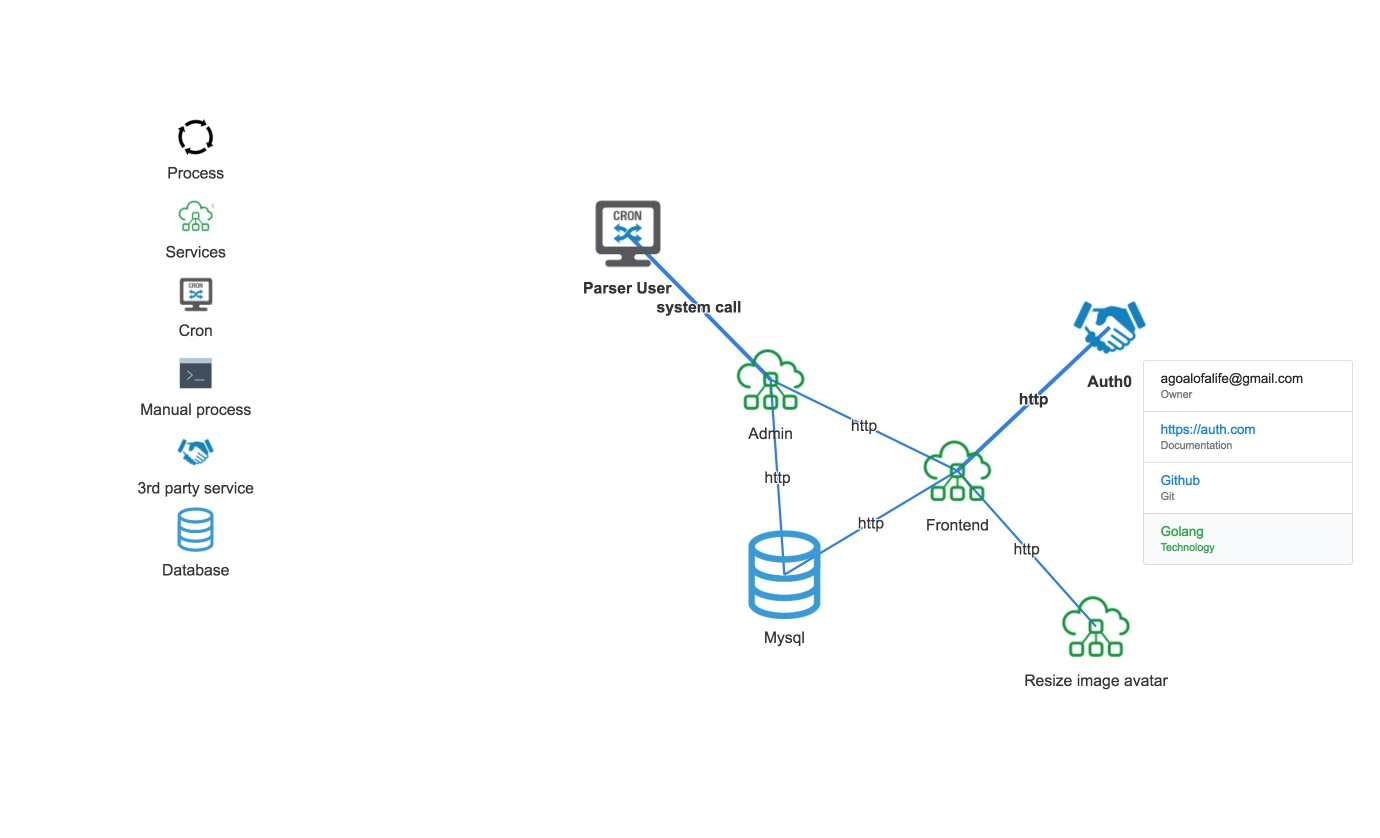
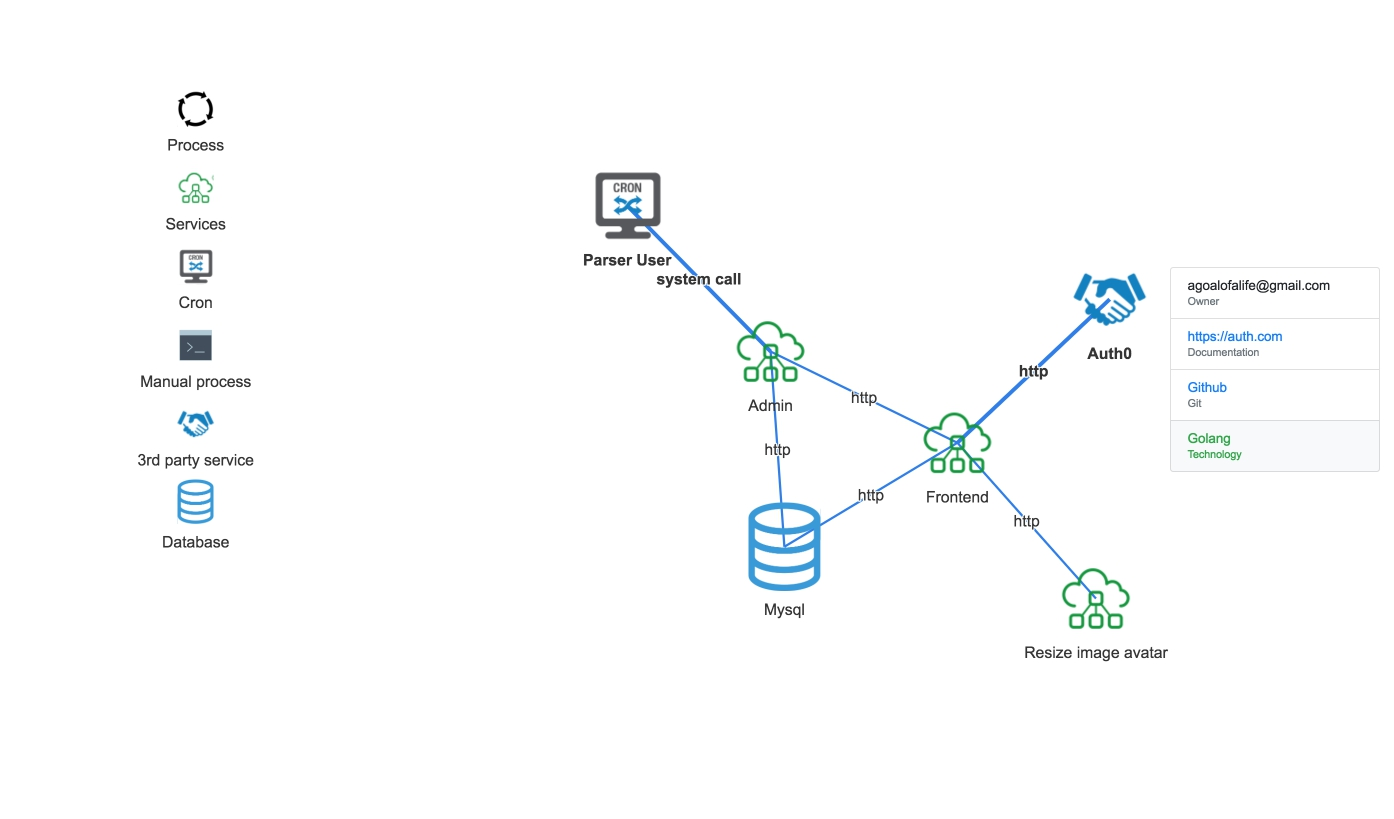
change

Changed region(s): [[0.4051, 0.1832, 0.9659, 0.8242], [0.0935, 0.0916, 0.187, 0.7021], [0.8413, 0.6105, 0.8725, 0.6716]]

diff --git a/readme.md b/readme.md
@@ -1,6 +1,6 @@
 <h1 align="center">
   <br>
-  <img src="./image.jpg" alt="image" width="450">
+  <img src="./image.jpg" alt="image" width="850">
   <br>
 </h1>
 
